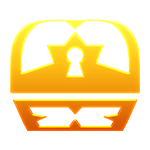
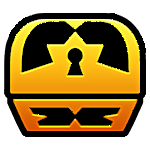
fix progression for DC and HB add final xemnas points add death penalty points other score mode changes

diff --git a/KhTracker/MainDictionary.xaml b/KhTracker/MainDictionary.xaml
@@ -100,7 +100,8 @@
     <Image x:Key="Sword"		        Source="Images\System\stats\sword.png"    x:Shared="false"/>
     <Image x:Key="Shield"  	            Source="Images\System\stats\shield.png"   x:Shared="false"/>
     <Image x:Key="Staff"  	            Source="Images\System\stats\staff.png"    x:Shared="false"/>
-    <Image x:Key="Chest" 		        Source="Images\System\stats\chest.png"/>
+    <Image x:Key="Chest" 		        Source="Images\System\stats\chest.png"    x:Shared="false"/>
+    <Image x:Key="Score" 		        Source="Images\System\stats\limit.png"    x:Shared="false"/>
     <Image x:Key="HighJump" 		    Source="Images\System\drive_growth\high_jump.png"    x:Shared="false"/>
     <Image x:Key="QuickRun" 		    Source="Images\System\drive_growth\quick_run.png"    x:Shared="false"/>
     <Image x:Key="DodgeRoll" 		    Source="Images\System\drive_growth\dodge_roll.png"   x:Shared="false"/>
@@ -121,7 +122,8 @@
     <Image x:Key="Cus-Sword"		    Source="pack://application:,,,/CustomImages/System/stats/sword.png"    x:Shared="false"/>
     <Image x:Key="Cus-Shield"  	        Source="pack://application:,,,/CustomImages/System/stats/shield.png"   x:Shared="false"/>
     <Image x:Key="Cus-Staff"  	        Source="pack://application:,,,/CustomImages/System/stats/staff.png"    x:Shared="false"/>
-    <Image x:Key="Cus-Chest" 		    Source="pack://application:,,,/CustomImages/System/stats/chest.png"/>
+    <Image x:Key="Cus-Chest" 		    Source="pack://application:,,,/CustomImages/System/stats/chest.png"    x:Shared="false"/>
+    <Image x:Key="Cus-Score" 		    Source="pack://application:,,,/CustomImages/System/stats/limit.png"    x:Shared="false"/>
     <Image x:Key="Cus-HighJump" 		Source="pack://application:,,,/CustomImages/System/drive_growth/high_jump.png"    x:Shared="false"/>
     <Image x:Key="Cus-QuickRun" 		Source="pack://application:,,,/CustomImages/System/drive_growth/quick_run.png"    x:Shared="false"/>
     <Image x:Key="Cus-DodgeRoll" 		Source="pack://application:,,,/CustomImages/System/drive_growth/dodge_roll.png"   x:Shared="false"/>

diff --git a/KhTracker/MainWindow.xaml b/KhTracker/MainWindow.xaml
@@ -1670,6 +1670,9 @@
                             </local:OutlinedTextBlock>
                         </Viewbox>
                     </Grid>
+
+                    <ContentControl  Grid.Column="9" Content="{DynamicResource Chest}" Name="ChestIcon" HorizontalAlignment="Right"/>
+
                     <!-- IC Count -->
                     <Grid Grid.Column="11" x:Name="CollectionGrid" Visibility="Visible">
                         <Grid.ColumnDefinitions>
@@ -1748,7 +1751,6 @@
                             <ColumnDefinition  Width="1*"/>
                             <ColumnDefinition Width="0.1*"/>
                         </Grid.ColumnDefinitions>
-                        <!--ContentControl Content="{DynamicResource Min-Chest}" Name="ChestIcon"/-->
                         <!-- Total -->
                         <Viewbox HorizontalAlignment="Right" VerticalAlignment="Stretch">
                             <local:OutlinedTextBlock x:Name="ScoreValue" FontFamily="{StaticResource Gummi}" FontSize="20" FontStretch="Medium" 

diff --git a/KhTracker/AutoTracking/AutoTracker.cs b/KhTracker/AutoTracking/AutoTracker.cs
@@ -899,9 +899,9 @@ namespace KhTracker
                             if (world.eventID1 == 55 && world.eventComplete == 1) // HB Demyx finish
                                 curProg = 6;
                             else if (world.eventID1 == 114 && world.eventComplete == 1) // Data Demyx finish
-                                if (curProg <= 9)
+                                if (curProg == 9)
                                     curProg = 11; //data demyx + sephi finished
-                                else
+                                else if (curProg != 11)
                                     curProg = 10;
                             break;
                         case 16:
@@ -914,9 +914,9 @@ namespace KhTracker
                             break;
                         case 1:
                             if (world.eventID1 == 75 && world.eventComplete == 1) // Sephiroth finish
-                                if (curProg <= 10)
+                                if (curProg == 10)
                                     curProg = 11; //data demyx + sephi finished
-                                else
+                                else if (curProg != 11)
                                     curProg = 9;
                             break;
                         //CoR
@@ -1235,16 +1235,16 @@ namespace KhTracker
                             break;
                         case 38:
                             if ((world.eventID1 == 145 || world.eventID1 == 150) && world.eventComplete == 1) // Marluxia finish
-                                if (curProg <= 8)
+                                if (curProg == 8)
                                     curProg = 9; //marluxia + LW finished
-                                else
+                                else if (curProg != 9)
                                     curProg = 7;
                             break;
                         case 7:
                             if (world.eventID1 == 67 && world.eventComplete == 1) // Lingering Will finish
-                                if (curProg <= 7)
+                                if (curProg == 7)
                                     curProg = 9; //marluxia + LW finished
-                                else
+                                else if (curProg != 9)
                                     curProg = 8;
                             break;
                         default:
@@ -1902,8 +1902,7 @@ namespace KhTracker
             if (world.eventComplete == 1 && boss != "None")
                 eventInProgress = true;
 
-            //for now do nothing with final xemnas
-            if (boss == "None" || boss.StartsWith("Final Xemnas"))
+            if (boss == "None")
                 return;
 
             //get points for boss kills
@@ -1915,56 +1914,172 @@ namespace KhTracker
         {
             int points = 0;
             int bonuspoints = 0;
+            int bonuspoints1 = 0;
+            int bonuspoints2 = 0;
             string bossType;
+            string bossType1;
+            string bossType2;
             string replacementType = "None";
+            string replacementType1 = "None";
+            string replacementType2 = "None";
 
-            bossType = Codes.FindBossType(boss);
 
-            if (bossType == "Unknown")
+            if (boss == "Twin Lords")
             {
-                Console.WriteLine("Unknown Boss: " + boss);
+                string boss1 = "Blizzard Lord";
+                string boss2 = "Volcano Lord";
 
-                if (App.logger != null)
-                    App.logger.Record("Unknown Boss: " + boss);
-                return;
-            }
+                bossType1 = Codes.FindBossType(boss1);
+                bossType2 = Codes.FindBossType(boss2);
 
-            if (bossType == "boss_static")
-                bossType = "boss_other";
 
-            if (data.BossRandoFound)
-            {
-                if (Codes.FindBossType(boss) == "boss_static")
-                    replacementType = "boss_other";
-                else
-                    replacementType = Codes.FindBossType(data.BossList[boss]);
-
-                if (replacementType == "Unknown")
+                if (bossType1 == "Unknown")
                 {
-                    Console.WriteLine("Unknown Replacement Boss: " + data.BossList[boss]);
+                    Console.WriteLine("Unknown Boss: " + boss1);
 
                     if (App.logger != null)
-                        App.logger.Record("Unknown Replacement Boss: " + data.BossList[boss]);
+                        App.logger.Record("Unknown Boss: " + boss1);
+
+                    bossType1 = "boss_other";
+                }
+
+                if (bossType2 == "Unknown")
+                {
+                    Console.WriteLine("Unknown Boss: " + boss2);
+
+                    if (App.logger != null)
+                        App.logger.Record("Unknown Boss: " + boss2);
+
+                    bossType2 = "boss_other";
+                }
+
+                if (bossType1 == "boss_static")
+                    bossType1 = "boss_other";
+
+                if (bossType2 == "boss_static")
+                    bossType2 = "boss_other";
+
+                if (data.BossRandoFound)
+                {
+                    if (Codes.FindBossType(boss1) == "boss_static")
+                        replacementType1 = "boss_other";
+                    else
+                        replacementType1 = Codes.FindBossType(data.BossList[boss1]);
+
+                    if (replacementType1 == "Unknown")
+                    {
+                        Console.WriteLine("Unknown Replacement Boss: " + data.BossList[boss1]);
+
+                        if (App.logger != null)
+                            App.logger.Record("Unknown Replacement Boss: " + data.BossList[boss1]);
+                    }
+
+                    //add extra points for bosses in data/sephi/terra arenas
+                    switch (bossType1)
+                    {
+                        case "boss_datas":
+                        case "boss_sephi":
+                        case "boss_terra":
+                            bonuspoints1 += data.PointsDatanew[bossType1];
+                            break;
+                    }
+
+                    if (bonuspoints1 > 0)
+                        bonuspoints1 /= 2;
+
+                    if (Codes.FindBossType(boss2) == "boss_static")
+                        replacementType2 = "boss_other";
+                    else
+                        replacementType2 = Codes.FindBossType(data.BossList[boss2]);
+
+                    if (replacementType2 == "Unknown")
+                    {
+                        Console.WriteLine("Unknown Replacement Boss: " + data.BossList[boss2]);
+
+                        if (App.logger != null)
+                            App.logger.Record("Unknown Replacement Boss: " + data.BossList[boss2]);
+                    }
+
+                    //add extra points for bosses in data/sephi/terra arenas
+                    switch (bossType2)
+                    {
+                        case "boss_datas":
+                        case "boss_sephi":
+                        case "boss_terra":
+                            bonuspoints2 += data.PointsDatanew[bossType2];
+                            break;
+                    }
+
+                    if (bonuspoints2 > 0)
+                        bonuspoints2 /= 2;
+
+                    bonuspoints = bonuspoints1 + bonuspoints2;
+
+                }
+                else
+                {
+                    replacementType1 = bossType1;
+                    replacementType2 = bossType2;
+                }
+
+                int pointstemp = data.PointsDatanew[replacementType1] + data.PointsDatanew[replacementType2];
+
+                points = pointstemp + bonuspoints + (pointstemp / 2);
+            }
+            else
+            {
+                int datafinal = 0;
+                if (boss == "Final Xemnas (Data)")
+                    datafinal = data.PointsDatanew["boss_datas"];
+
+                bossType = Codes.FindBossType(boss);
+
+                if (bossType == "Unknown")
+                {
+                    Console.WriteLine("Unknown Boss: " + boss);
+
+                    if (App.logger != null)
+                        App.logger.Record("Unknown Boss: " + boss);
                     return;
                 }
 
-                //add extra points for bosses in data/sephi/terra arenas
-                switch (bossType)
+                if (bossType == "boss_static")
+                    bossType = "boss_other";
+
+                if (data.BossRandoFound)
                 {
-                    case "boss_datas":
-                    case "boss_sephi":
-                    case "boss_terra":
-                        bonuspoints += data.PointsDatanew[bossType];
-                        break;
+                    if (Codes.FindBossType(boss) == "boss_static")
+                        replacementType = "boss_other";
+                    else
+                        replacementType = Codes.FindBossType(data.BossList[boss]);
+
+                    if (replacementType == "Unknown")
+                    {
+                        Console.WriteLine("Unknown Replacement Boss: " + data.BossList[boss]);
+
+                        if (App.logger != null)
+                            App.logger.Record("Unknown Replacement Boss: " + data.BossList[boss]);
+                        return;
+                    }
+
+                    //add extra points for bosses in data/sephi/terra arenas
+                    switch (bossType)
+                    {
+                        case "boss_datas":
+                        case "boss_sephi":
+                        case "boss_terra":
+                            bonuspoints += data.PointsDatanew[bossType];
+                            break;
+                    }
+
+                    if (bonuspoints > 0)
+                        bonuspoints /= 2;
                 }
+                else
+                    replacementType = bossType;
 
-                if (bonuspoints > 0)
-                    bonuspoints /= 2;
+                points = data.PointsDatanew[replacementType] + bonuspoints + datafinal;
             }
-            else
-                replacementType = bossType;
-
-            points = data.PointsDatanew[replacementType] + bonuspoints;
 
             UpdatePointScore(points);
         }

diff --git a/KhTracker/Core/HintModes.cs b/KhTracker/Core/HintModes.cs
@@ -492,6 +492,7 @@ namespace KhTracker
             int BonusPoints = data.PointsDatanew["bonus"];
             int FormPoints = data.PointsDatanew["formlv"];
             int CompletePoints = data.PointsDatanew["complete"];
+            int DeathPoints = data.PointsDatanew["deaths"];
 
             PointTotal = num; //set new point total
 
@@ -501,12 +502,13 @@ namespace KhTracker
             if (aTimer != null)
             {
                 int BonusTotal = stats.BonusLevel * BonusPoints;
-                int Valorlv = (valor.Level - 1) * FormPoints;
-                int Wisdomlv = (wisdom.Level - 1) * FormPoints;
-                int Limitlv = (limit.Level - 1) * FormPoints;
-                int Masterlv = (master.Level - 1) * FormPoints;
-                int Finallv = (final.Level - 1) * FormPoints;
-                num += BonusTotal + Valorlv + Wisdomlv + Limitlv + Masterlv + Finallv;
+                int Valorlv = (valor.VisualLevel - 1) * FormPoints;
+                int Wisdomlv = (wisdom.VisualLevel - 1) * FormPoints;
+                int Limitlv = (limit.VisualLevel - 1) * FormPoints;
+                int Masterlv = (master.VisualLevel - 1) * FormPoints;
+                int Finallv = (final.VisualLevel - 1) * FormPoints;
+                int Deaths = DeathCounter * DeathPoints;
+                num += BonusTotal + Valorlv + Wisdomlv + Limitlv + Masterlv + Finallv + Deaths;
             }
 
             //add bonus points for completeing a world

diff --git a/KhTracker/Core/Options.cs b/KhTracker/Core/Options.cs
@@ -848,6 +848,7 @@ namespace KhTracker
             AtlanticaProgression.SetResourceReference(ContentProperty, "");
             GoAProgression.SetResourceReference(ContentProperty, "");
             DriveFormsCap.SetResourceReference(ContentProperty, "");
+            ChestIcon.SetResourceReference(ContentProperty, "Chest");
 
             Level.Visibility = Visibility.Collapsed;
             Strength.Visibility = Visibility.Collapsed;
@@ -1163,6 +1164,8 @@ namespace KhTracker
 
                 UpdatePointScore(0);
                 ShowCheckCountToggle(null, null);
+
+                //ChestIcon.SetResourceReference(ContentProperty, "Score");
             }
             else if (mode == Mode.PathHints)
             {
@@ -1181,7 +1184,8 @@ namespace KhTracker
                 UpdatePointScore(0);
                 ShowCheckCountToggle(null, null);
 
-                ModeDisplay.Header = ModeDisplay.Header + " | Hi-Score Mode";
+                ModeDisplay.Header += " | Hi-Score Mode";
+                //ChestIcon.SetResourceReference(ContentProperty, "Score");
             }
         }
 

diff --git a/KhTracker/Core/Toggles.cs b/KhTracker/Core/Toggles.cs
@@ -543,12 +543,16 @@ namespace KhTracker
             {
                 CollectionGrid.Visibility = Visibility.Visible;
                 ScoreGrid.Visibility = Visibility.Collapsed;
+
+                ChestIcon.SetResourceReference(ContentProperty, "Chest");
             }
             //if points should show and replace check count IN POINTS MODE
             else
             {
                 CollectionGrid.Visibility = Visibility.Collapsed;
                 ScoreGrid.Visibility = Visibility.Visible;
+
+                ChestIcon.SetResourceReference(ContentProperty, "Score");
             }
         }
 

diff --git a/KhTracker/Core/Codes.cs b/KhTracker/Core/Codes.cs
@@ -642,6 +642,8 @@ namespace KhTracker
             {"Xaldin (Data)", "boss_datas"},
             {"Xemnas", "boss_other"},
             {"Xemnas (Data)", "boss_datas"},
+            {"Final Xemnas", "boss_final"},
+            {"Final Xemnas (Data)", "boss_final"},
             {"Xigbar", "boss_other"},
             {"Xigbar (Data)", "boss_datas"},
             {"Yuffie", "boss_other"},

diff --git a/KhTracker/Core/Data.cs b/KhTracker/Core/Data.cs
@@ -70,6 +70,7 @@ namespace KhTracker
             { "boss_sephi", 0 },
             { "boss_terra", 0 },
             { "boss_other", 0 },
+            { "boss_final", 0 },
             { "deaths", 0 }
         };
         public static Dictionary<string, List<string>> WorldItems = new Dictionary<string, List<string>>();
